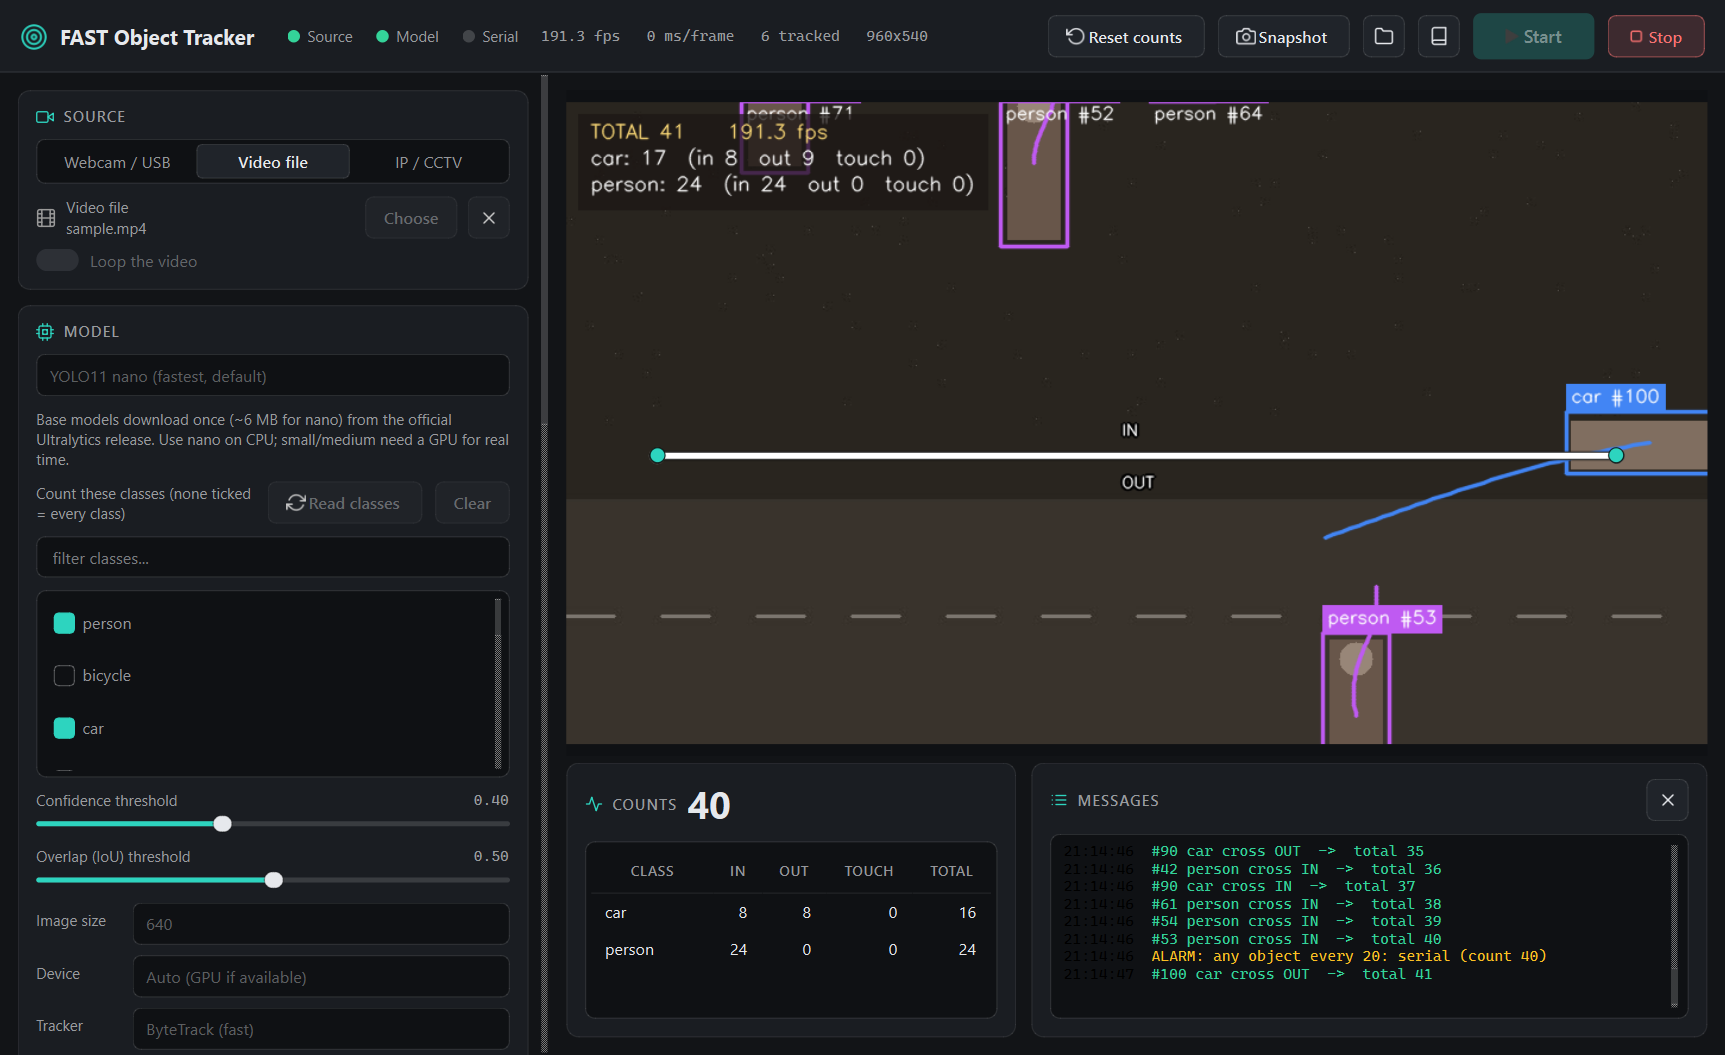
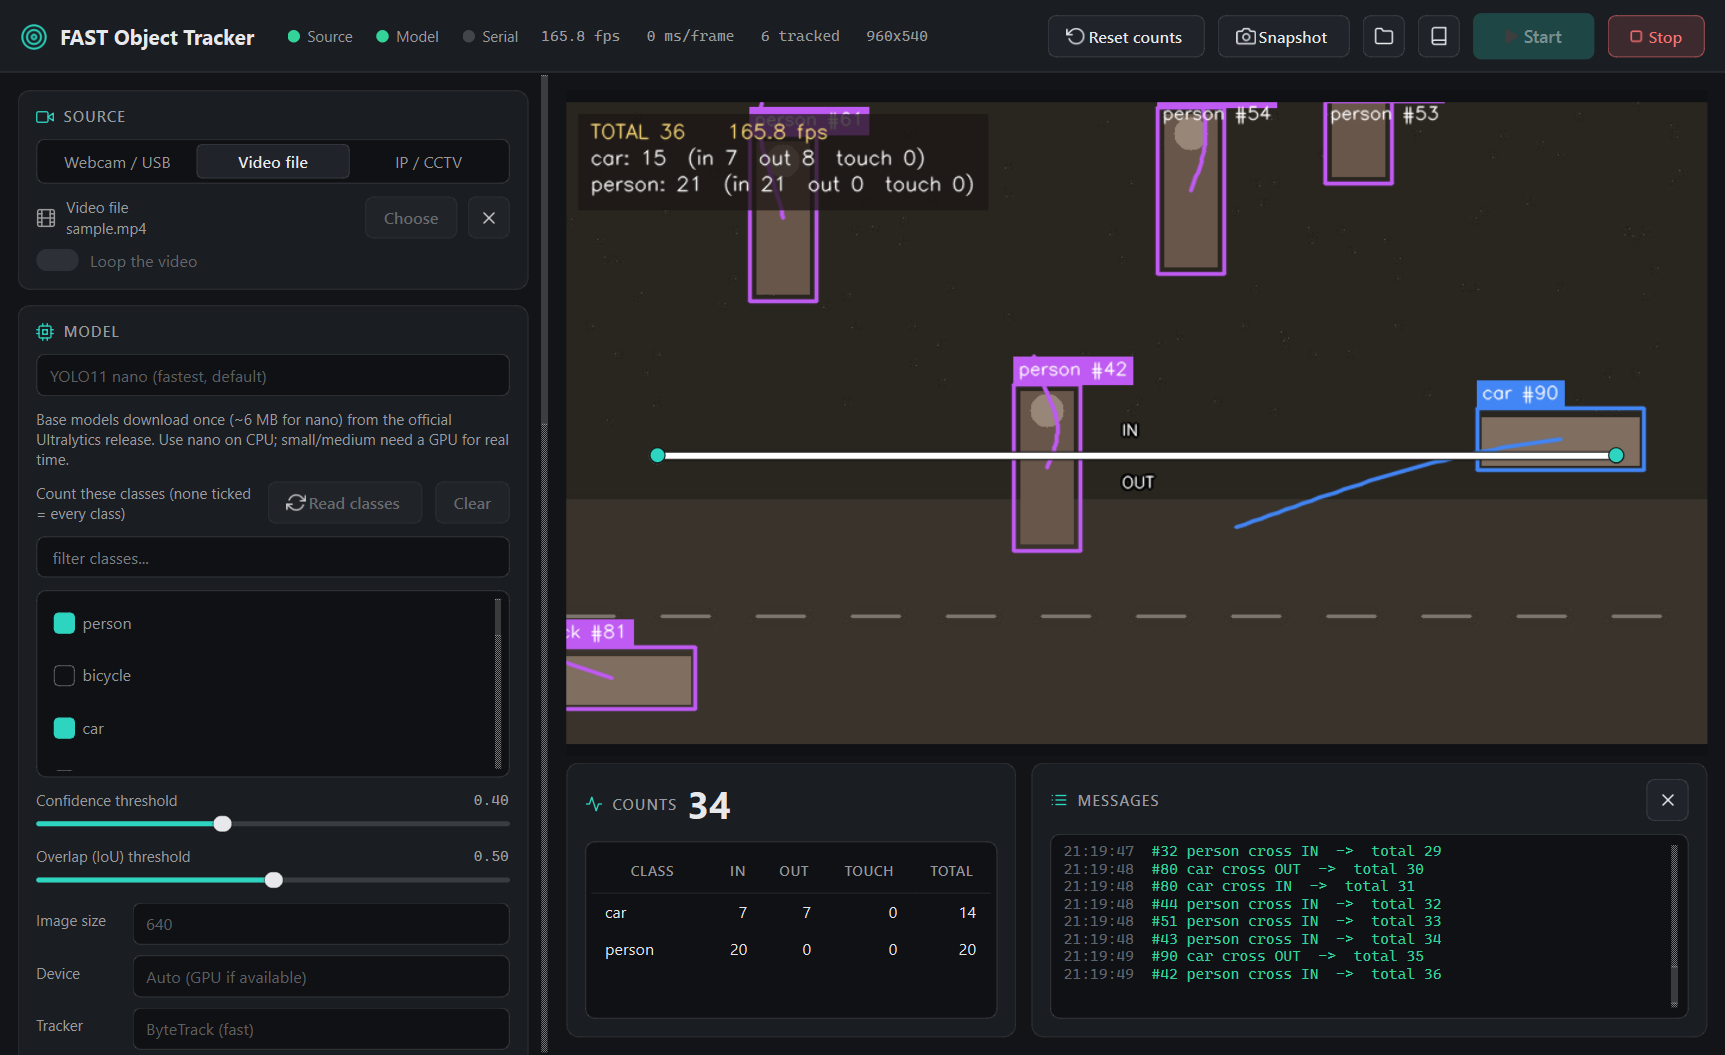
app: opaque colours for the log and placeholders, shorter line flash
QColor does not parse rgba() strings, so info lines and timestamps in the
message log fell back to black; use hex equivalents.

diff --git a/src/fasttracker/app/main_window.py b/src/fasttracker/app/main_window.py
@@ -22,7 +22,7 @@ from . import icons, theme, widgets as w
 from .worker import ClassProbe, PipelineWorker, PortProbe, ProbeSignals, WebcamProbe
 
 DOCS_URL = "https://github.com/PhantomAnas/FAST-Object-Tracker"
-LEVEL_COLORS = {"info": theme.MUTED, "ok": theme.GREEN, "warn": theme.ORANGE, "error": theme.RED}
+LEVEL_COLORS = {"info": theme.MUTED_HEX, "ok": theme.GREEN, "warn": theme.ORANGE, "error": theme.RED}
 
 
 def _open_folder(path: str) -> None:
@@ -861,11 +861,11 @@ class MainWindow(QMainWindow):
     def log(self, level: str, text: str) -> None:
         stamp = dt.datetime.now().strftime("%H:%M:%S")
         fmt = QTextCharFormat()
-        fmt.setForeground(QColor(LEVEL_COLORS.get(level, theme.MUTED)))
+        fmt.setForeground(QColor(LEVEL_COLORS.get(level, theme.MUTED_HEX)))
         cursor = self.log_view.textCursor()
         cursor.movePosition(QTextCursor.MoveOperation.End)
         dim = QTextCharFormat()
-        dim.setForeground(QColor(theme.FAINT))
+        dim.setForeground(QColor(theme.FAINT_HEX))
         cursor.insertText(f"{stamp}  ", dim)
         cursor.insertText(text + "\n", fmt)
         self.log_view.setTextCursor(cursor)

diff --git a/src/fasttracker/app/widgets.py b/src/fasttracker/app/widgets.py
@@ -166,7 +166,7 @@ class FilePicker(QWidget):
         lay.setContentsMargins(0, 0, 0, 0)
         lay.setSpacing(8)
         ic = QLabel()
-        ic.setPixmap(icons.pixmap(icon_name, 16, theme.MUTED_HEX if hasattr(theme, "MUTED_HEX") else "#9aa0a8", dpr=self.devicePixelRatioF()))
+        ic.setPixmap(icons.pixmap(icon_name, 16, theme.MUTED_HEX, dpr=self.devicePixelRatioF()))
         lay.addWidget(ic)
         text = QVBoxLayout()
         text.setSpacing(0)
@@ -302,8 +302,7 @@ class VideoView(QWidget):
             p.drawImage(r, self._img)
         else:
             p.fillRect(r, QColor("#15181c"))
-            p.setPen(QColor(theme.FAINT.replace("rgba(230,232,236,0.36)", "#6b7078")))
-            p.setPen(QColor(110, 115, 125))
+            p.setPen(QColor(theme.FAINT_HEX))
             f = QFont()
             f.setPointSize(10)
             p.setFont(f)

diff --git a/src/fasttracker/pipeline.py b/src/fasttracker/pipeline.py
@@ -235,7 +235,7 @@ class Pipeline:
 
                 # Events -> alarms / serial / log
                 for ev in events:
-                    flash_until = time.time() + 0.25
+                    flash_until = time.time() + 0.12
                     if self.cb.on_event:
                         self.cb.on_event(ev, self.counter.totals.total())
                     if log_writer:

diff --git a/src/fasttracker/app/theme.py b/src/fasttracker/app/theme.py
@@ -8,6 +8,8 @@ ORANGE = "#fbbf24"
 TEXT = "#e6e8ec"
 MUTED = "rgba(230,232,236,0.62)"
 FAINT = "rgba(230,232,236,0.36)"
+MUTED_HEX = "#9ba0a8"      # opaque equivalents for QColor (which does not parse rgba())
+FAINT_HEX = "#5f646c"
 BG = "#121417"
 SURFACE = "#1a1d22"
 SURFACE_2 = "#20242a"
